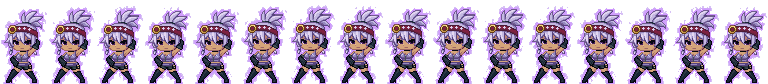
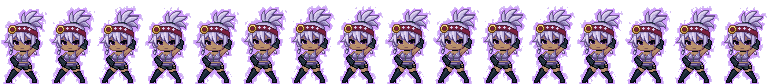
Lei: la pelle a meta' fra il primo giro e la prova a 0.72
Bru ha scelto fra le prove "una via di mezzo tra la seconda e la terza": la
scala e' a meta' strada, in OKLab, fra il primo giro e la prova col pieno a
luce 0.72 (il pieno ora a 0.686). Il bordo del cerchio d'oro resta coi colori
di partenza; aggiornati i colori scritti in corda_davanti, viso_corsa e
ferma_lato.

Claude-Session: https://claude.ai/code/session_01AE7uzpDH1Lo1PHb29aXJxZ

diff --git a/strumenti/protagonisti/schiarisci_pelle.py b/strumenti/protagonisti/schiarisci_pelle.py
@@ -1,15 +1,16 @@
 """La pelle di Lei piu' chiara, abbronzata (Bru: "la pelle della protagonista e' troppo scura, possiamo schiarirla
 leggermente?", poi: "schiariamo ancora leggermente la pelle del personaggio, deve sembrare abbronzata non indiana").
-Il primo giro alzava la luce di ogni tono di +0.06 (OKLab) con la stessa tinta: restava marrone, perche' quasi meta'
-della pelle e' in ombra e le ombre erano rosso-viola spente. Ora la scala e' rifatta in OKLCH: il pieno dorato
-(luce 0.755, tinta 64), la luce del naso verso il giallo, le ombre calde color terracotta (tinta 36, l'ombra fonda 20,
-ancora verso il rosso-viola come vogliono le regole della tavolozza) piu' vicine al pieno di prima, cosi' si vede
-abbronzata e non scura. Le due famiglie della pelle (la ferma e le corse, ricalcate in tempi diversi) restano due,
-la corsa un filo sotto come nei disegni; i contorni scuri, la bocca, il cerchio d'oro e il resto non si toccano.
+Fra le prove a confronto Bru ha scelto "una via di mezzo tra la seconda e la terza": la seconda e' il primo giro
+(ogni tono +0.06 di luce in OKLab, stessa tinta), la terza la prova col pieno a luce 0.72 (le ombre un po' piu'
+vicine al pieno e un filo meno intense, la tinta di 4 gradi verso il giallo). La scala qui e' a meta' strada fra le
+due, in OKLab: il pieno a luce 0.686. Le due famiglie della pelle (la ferma e le corse, ricalcate in tempi diversi)
+restano due, la corsa un filo sotto come nei disegni; i contorni scuri, la bocca, il cerchio d'oro e il resto non si
+toccano.
 Il bordo scuro del cerchio d'oro sulla fascia e' disegnato con due marroni della pelle: schiariti farebbero un alone
 rosato attorno al cerchio, quindi i pezzetti di "pelle" attaccati all'oro (al piu' 12 pixel: la pelle vera e' molto
 piu' grande) tengono i colori di partenza.
-Cambia sia i colori di partenza sia quelli del primo giro; si puo' rilanciare: dopo non trova piu' niente da cambiare.
+Cambia sia i colori di partenza sia quelli dei giri di prima; si puo' rilanciare: dopo non trova piu' niente da
+cambiare.
 uso: schiarisci_pelle.py cartella_lei_chibi"""
 import glob
 import os
@@ -18,26 +19,26 @@ import sys
 import numpy as np
 from PIL import Image
 
-# tono: (colore di partenza, colore del primo giro) -> colore nuovo
+# tono: (colore di partenza, primo giro, secondo giro, adesso); l'ultimo e' quello che resta
 SCALA = {
     # la ferma (e attesa, corda, dorme, jojo)
-    'luce (il naso)': ((173, 135, 111), (192, 153, 129), (227, 187, 158)),
-    'pieno': ((156, 116, 82), (175, 134, 99), (212, 165, 122)),
-    'ombra': ((130, 85, 80), (147, 101, 95), (190, 131, 114)),
-    'ombra fonda': ((97, 58, 63), (110, 70, 75), (157, 103, 102)),
-    'ombra di spalle': ((117, 82, 79), (132, 96, 93), (179, 125, 113)),
+    'luce (il naso)': ((173, 135, 111), (192, 153, 129), (227, 187, 158), (203, 164, 138)),
+    'pieno': ((156, 116, 82), (175, 134, 99), (212, 165, 122), (185, 145, 108)),
+    'ombra': ((130, 85, 80), (147, 101, 95), (190, 131, 114), (160, 114, 107)),
+    'ombra fonda': ((97, 58, 63), (110, 70, 75), (157, 103, 102), (127, 86, 89)),
+    'ombra di spalle': ((117, 82, 79), (132, 96, 93), (179, 125, 113), (146, 110, 106)),
     # le corse
-    'corsa: luce (il naso)': ((166, 125, 106), (185, 143, 124), (225, 183, 158)),
-    'corsa: pieno': ((150, 107, 78), (169, 125, 95), (207, 158, 118)),
-    'corsa: pieno 2': ((150, 108, 79), (169, 126, 96), (207, 159, 119)),
-    'corsa: ombra': ((128, 93, 75), (145, 109, 90), (187, 140, 118)),
-    'corsa: scura': ((105, 75, 64), (118, 87, 76), (164, 121, 108)),
+    'corsa: luce (il naso)': ((166, 125, 106), (185, 143, 124), (225, 183, 158), (196, 154, 133)),
+    'corsa: pieno': ((150, 107, 78), (169, 125, 95), (207, 158, 118), (179, 135, 104)),
+    'corsa: pieno 2': ((150, 108, 79), (169, 126, 96), (207, 159, 119), (179, 136, 105)),
+    'corsa: ombra': ((128, 93, 75), (145, 109, 90), (187, 140, 118), (157, 121, 101)),
+    'corsa: scura': ((105, 75, 64), (118, 87, 76), (164, 121, 108), (133, 102, 90)),
 }
-PELLE = {}                      # ogni colore della pelle (di partenza, del primo giro, nuovo) -> (partenza, nuovo)
-for partenza, primo, nuovo in SCALA.values():
-    for c in (partenza, primo, nuovo):
-        PELLE[c] = (partenza, nuovo)
-assert len(PELLE) == 3 * len(SCALA)
+PELLE = {}                      # ogni colore che la pelle ha avuto -> (colore di partenza, colore di adesso)
+for colori in SCALA.values():
+    for c in colori:
+        PELLE[c] = (colori[0], colori[-1])
+assert len(PELLE) == 4 * len(SCALA)
 ORO = {(97, 60, 20), (178, 136, 62), (202, 153, 78), (223, 186, 97), (250, 214, 129)}   # il cerchio d'oro
 BORDO_ORO = 12
 

diff --git a/strumenti/protagonisti/corda_davanti.py b/strumenti/protagonisti/corda_davanti.py
@@ -25,7 +25,7 @@ for y, riga in PUGNO.items():
         src[y, 39 - x, :3] = c; src[y, 39 - x, 3] = 255
 # ---- la bocca: solo un punto, aperta quel poco che basta per respirare (era un trattino alla riga 38, x 16-19)
 for x in (16, 18, 19):
-    src[38, x, :3] = (212, 165, 122)                                   # pelle
+    src[38, x, :3] = (185, 145, 108)                                   # pelle
 src[38, 17, :3] = (74, 26, 52)                                        # il punto scuro della bocca aperta
 op = src[..., 3] > 0
 Y, X = np.mgrid[0:H, 0:W]
@@ -37,7 +37,7 @@ corpo = op & ~coda & ~ciocche & ~braccia & ~gambe
 # ---- le gambe: pose fatte riga per riga dalle gambe di Lei ferma (righe 59-72: l'anca, le cosce, gli stivali).
 # per ogni posa le righe di partenza dalla 60 in giu' (con quanto il ginocchio va in fuori), poi il piede se cambia
 COL = {'l': (6, 7, 15), 'h': (22, 37, 52), 'n': (49, 59, 70), 'm': (69, 79, 85),     # stivali
-       'e': (212, 165, 122), 'c': (190, 131, 114), 'd': (157, 103, 102)}                     # pelle
+       'e': (185, 145, 108), 'c': (160, 114, 107), 'd': (127, 86, 89)}                     # pelle
 PIEDI = {   # (piede sinistro da x 12, piede destro da x 20), sotto la caviglia (riga 70)
     'punta_terra': (['.lhhl..', 'lhnl...', 'lll....'], ['....lnnl', '....lhnl', '....llll']),   # tallone su, punta a terra
     'punta':       (['.lhhl..', '.lhl...', '.ll....'], ['....lnhl', '.....lnl', '.....ll.']),   # in aria, punta in giu'

diff --git a/strumenti/protagonisti/ferma_lato.py b/strumenti/protagonisti/ferma_lato.py
@@ -20,7 +20,7 @@ NOTTE = {(24, 20, 33): (6, 7, 15), (40, 37, 54): (22, 37, 52), (55, 50, 68): (49
 LATTICE = {(6, 7, 15), (22, 37, 52), (49, 59, 70), (69, 79, 85)}
 COL = {'l': (6, 7, 15), 'h': (22, 37, 52), 'n': (49, 59, 70), 'm': (69, 79, 85)}
 CAPELLI_VECCHI = {(87, 66, 125), (114, 91, 145), (148, 136, 190), (196, 185, 225), (228, 215, 241)}
-PELLE, PELLE_OMBRA, PELLE_SCURA = (187, 140, 118), (164, 121, 108), (85, 55, 39)   # i colori del collo della corsa
+PELLE, PELLE_OMBRA, PELLE_SCURA = (157, 121, 101), (133, 102, 90), (85, 55, 39)   # i colori del collo della corsa
 
 # le gambe verso sinistra, dalla riga 68 (bordo dello stivale) alla 80 (suole), da x 11. Bru: niente polpaccio
 # grosso e niente gambe inclinate in avanti: le gambe scendono verso il baricentro (x 18 circa: testa e corpo) e i
@@ -42,7 +42,7 @@ VICINA = ['.lllllll....',
 # la coscia intera sotto i pantaloncini (righe 65-67, da x 11) fino al bordo dello stivale: la mano ora finisce
 # all'altezza dei pantaloncini, come di fronte, e la coscia non resta mezza coperta
 COSCE = ['.dceeeecd', '.dceeeecd', '.dceeeeed']
-PELLI = {'d': (157, 103, 102), 'c': (190, 131, 114), 'e': (212, 165, 122)}
+PELLI = {'d': (127, 86, 89), 'c': (160, 114, 107), 'e': (185, 145, 108)}
 # la treccia: quella della corsa, che scende davanti al collo fino al petto (Bru: "hai rimosso le trecce?")
 CAPELLI_CORSA = {(86, 69, 107), (110, 91, 132), (124, 105, 147), (168, 148, 189), (191, 172, 209), (206, 185, 223)}
 

diff --git a/strumenti/protagonisti/viso_corsa.py b/strumenti/protagonisti/viso_corsa.py
@@ -20,10 +20,10 @@ COL = {'l': NERO,
        'B': (78, 34, 90),        # pupilla
        '1': (125, 62, 135),      # magenta
        '0': (245, 205, 226),     # riflesso
-       'e': (207, 158, 118),     # pelle
-       'c': (187, 140, 118),     # pelle in ombra
-       'd': (164, 121, 108),     # pelle scura
-       '2': (225, 183, 158)}     # la luce del naso (nella ferma 227,187,158 sulla pelle 212,165,122)
+       'e': (179, 135, 104),     # pelle
+       'c': (157, 121, 101),     # pelle in ombra
+       'd': (133, 102, 90),      # pelle scura
+       '2': (196, 154, 133)}     # la luce del naso (nella ferma 203,164,138 sulla pelle 185,145,108)
 # gli occhi della ferma (davanti_ferma.png, righe 30-35): il sinistro da x 9, il destro da x 21
 SINISTRO = ['llll.',
             'lllll',
